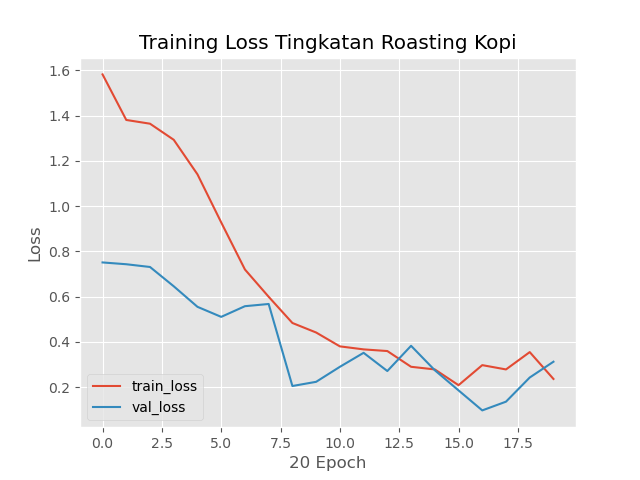
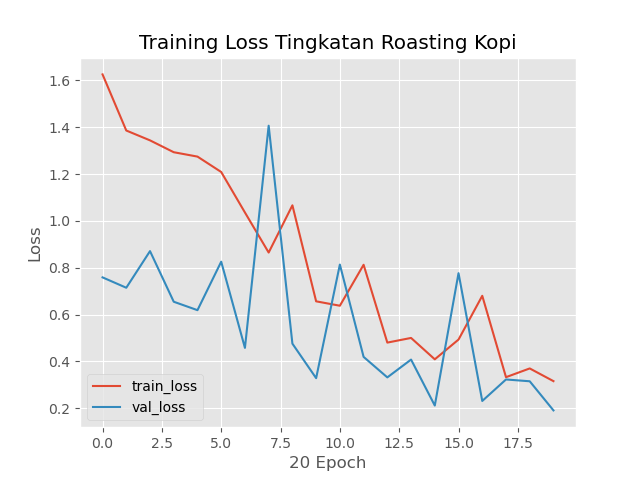
all using cpu + miniVggNet

diff --git a/Mini VggNet/train_miniVgg.py b/Mini VggNet/train_miniVgg.py
@@ -10,19 +10,19 @@ from tensorflow import keras
 from tensorflow.keras.optimizers import Adam
 from tensorflow.keras.optimizers import SGD 
 from tensorflow.keras.optimizers import Nadam
+from tensorflow.keras.utils import to_categorical
+from sklearn.preprocessing import LabelBinarizer
 from sklearn.model_selection import train_test_split
+from sklearn.metrics import classification_report
+from sklearn.metrics import confusion_matrix
 from keras.preprocessing.image import img_to_array
 from keras.preprocessing.image import ImageDataGenerator
 from keras.utils import to_categorical
-from alexnet import AlexNet
+from MiniVggNet import miniVgg
 import matplotlib.pyplot as plt
 import random
 import os
 import argparse
-from tensorflow.keras.utils import to_categorical
-from sklearn.preprocessing import LabelBinarizer
-from sklearn.metrics import classification_report
-from sklearn.metrics import confusion_matrix
 
 #Setting for using CPU
 tf.config.experimental.set_visible_devices([], 'GPU')
@@ -41,6 +41,7 @@ args = vars(ap.parse_args())
 
 # inisiasi variabel
 EPOCHS = 20
+#10^-3
 INIT_LR = 1e-3
 BS = 32
 
@@ -54,10 +55,11 @@ imagePaths = sorted(list(paths.list_images("../prepo")))
 random.seed(42)
 random.shuffle(imagePaths)
 
+
 for imagePath in imagePaths:
     make = imagePath[9:].split("(")[0]
     image = cv2.imread(imagePath)
-    image = cv2.resize(image,(227,227))
+    image = cv2.resize(image,(32,32))
     image = img_to_array(image)
     data.append(image)
 
@@ -71,7 +73,7 @@ for imagePath in imagePaths:
     elif make =="Medium Roast ":
         label = 2
     elif make == "Dark Roast ":
-        label = 3
+        label = 3     
     labels.append(label)
 
 print(labels)
@@ -95,10 +97,10 @@ aug = ImageDataGenerator(rotation_range = 30, width_shift_range=0.1,
 
 #inisiasi model
 print("[Info] Compiling Model.....")
-model = AlexNet.build(width=227, height=227, depth=3, classes=4)
+model = miniVgg.build(width=32, height=32, depth=3, classes=4)
 # opt = Adam(lr=INIT_LR, decay=INIT_LR / EPOCHS)
-# opt = SGD(lr=INIT_LR, momentum=0.9, decay=INIT_LR / EPOCHS)
-opt = Nadam(lr=INIT_LR, decay=INIT_LR / EPOCHS)
+opt = SGD(lr=INIT_LR, momentum=0.9, decay=INIT_LR / EPOCHS)
+# opt = Nadam(lr=INIT_LR, decay=INIT_LR / EPOCHS)
 # model.compile(loss="binary_crossentropy", optimizer=opt, metrics=["accuracy"])
 model.compile(loss="categorical_crossentropy", optimizer=opt, metrics=["accuracy"])
 
@@ -110,9 +112,9 @@ H = model.fit_generator(aug.flow(trainX, trainY, batch_size=BS),
 
 #save model
 print("[Info] menyimpan model")
-# model.save('train_AlexNet.model.h5')
-# model.save('train_AlexNet(SGD).model.h5')
-model.save('train_AlexNet(NADAM).model.h5')
+# model.save('train_miniVgg.model.h5')
+model.save('train_miniVgg(SGD).model.h5')
+# model.save('train_miniVgg(NADAM).model.h5')
 
 #simpan model ke disk
 # model.save(args["model"])
@@ -136,7 +138,7 @@ print(testY.argmax(axis=1))
 print(predIdxs)
 total = sum(sum(cm))
 print("total",total)
-# #Akurasi
+# Akurasi
 acc = (cm[0,0] + cm[1,1] + cm[2,2] + cm[3,3]) / total
 
 #Spesifitas

diff --git a/VGG16/train_vgg16.py b/VGG16/train_vgg16.py
@@ -8,6 +8,8 @@ matplotlib.use("Agg")
 import tensorflow as tf
 from tensorflow import keras
 from tensorflow.keras.optimizers import Adam
+from tensorflow.keras.optimizers import SGD 
+from tensorflow.keras.optimizers import Nadam
 from sklearn.model_selection import train_test_split
 from keras.preprocessing.image import img_to_array
 from keras.preprocessing.image import ImageDataGenerator
@@ -33,6 +35,8 @@ np.seterr(divide='ignore', invalid='ignore')
 ap = argparse.ArgumentParser()
 ap.add_argument("-p", "--plot", type=str, default="plot.png",
 	help="path to output accuracy/loss plot")
+ap.add_argument("-d", "--plot2", type=str, default="plotAkurasi.png",
+	help="path to output accuracy/loss plot") 
 args = vars(ap.parse_args())
 
 # inisiasi variabel
@@ -99,7 +103,10 @@ aug = ImageDataGenerator(rotation_range = 30, width_shift_range=0.1,
 print("[Info] Compiling Model.....")
 model = VGG16.build(width=224, height=224, depth=3, classes=4)
 opt = Adam(lr=INIT_LR, decay=INIT_LR / EPOCHS)
-model.compile(loss="binary_crossentropy", optimizer=opt, metrics=["accuracy"])
+# opt = SGD(lr=INIT_LR, momentum=0.9, decay=INIT_LR / EPOCHS)
+# opt = Nadam(lr=INIT_LR, decay=INIT_LR / EPOCHS)
+# model.compile(loss="binary_crossentropy", optimizer=opt, metrics=["accuracy"])
+model.compile(loss="categorical_crossentropy", optimizer=opt, metrics=["accuracy"])
 
 #train the network
 print("[Info] training model")
@@ -110,6 +117,8 @@ H = model.fit_generator(aug.flow(trainX, trainY, batch_size=BS),
 #save model
 print("[Info] menyimpan model")
 model.save('train_VGG16.model.h5')
+# model.save('train_VGG16(SGD).model.h5')
+# model.save('train_VGG16(NADAM).model.h5')
 
 #simpan model ke disk
 # model.save(args["model"])
@@ -167,10 +176,19 @@ plt.figure()
 N =  EPOCHS
 plt.plot(np.arange(0,N), H.history["loss"], label="train_loss")
 plt.plot(np.arange(0, N), H.history["val_loss"], label="val_loss")
-plt.plot(np.arange(0, N), H.history["accuracy"], label="train_accuracy")
-plt.plot(np.arange(0, N), H.history["val_accuracy"], label="val_accuracy")
-plt.title("Training Loss dan Accuracy Tingkatan Roasting Kopi")
-plt.xlabel("Epoch #")
-plt.ylabel("Loss/Accuracy")
+plt.title("Training Loss Tingkatan Roasting Kopi")
+plt.xlabel("20 Epoch")
+plt.ylabel("Loss")
 plt.legend(loc="lower left")
 plt.savefig(args["plot"])
+
+plt.style.use("ggplot")
+plt.figure()
+N =  EPOCHS
+plt.plot(np.arange(0, N), H.history["accuracy"], label="train_accuracy")
+plt.plot(np.arange(0, N), H.history["val_accuracy"], label="val_accuracy")
+plt.title("Accuracy Tingkatan Roasting Kopi")
+plt.xlabel("20 Epoch")
+plt.ylabel("Accuracy")
+plt.legend(loc="lower left")
+plt.savefig(args["plot2"])

diff --git a/Mini VggNet/MiniVggNet.py b/Mini VggNet/MiniVggNet.py
@@ -1,0 +1,44 @@
+import tensorflow as tf
+from tensorflow import keras
+from tensorflow.keras import Model
+from tensorflow.keras.models import Sequential 
+from tensorflow.keras.layers import Dense, Flatten, Conv2D, MaxPooling2D, Activation, Dropout
+
+class miniVgg:
+    @staticmethod
+    def build(width, height, depth, classes):
+        #inisiasi model
+        model = Sequential()
+        inputShape = (height, width, depth)
+
+        #1
+        # model.add(Conv2D(20, (5,5), padding="same", input_shape = inputShape))
+        model.add(Conv2D(32, (3,3), padding = "same", input_shape = inputShape))
+        model.add(Activation("relu"))
+
+        #2
+        model.add(Conv2D(32, (3,3), padding = "same" ))
+        model.add(Activation("relu"))
+        model.add(MaxPooling2D(pool_size = (2,2), strides=(2,2)))
+        model.add(Dropout(0.5))
+
+        #3
+        model.add(Conv2D(64, (3,3), padding = "same"))
+        model.add(Activation("relu"))
+
+        #4
+        model.add(Conv2D(64, (3,3), padding = "same"))
+        model.add(Activation("relu"))
+        model.add(MaxPooling2D(pool_size = (2,2), strides = (2,2)))
+        model.add(Dropout(0.5))
+
+        #5 FC
+        model.add(Flatten())
+        model.add(Dense(512))
+
+        #6
+        model.add(Dense(classes))
+        model.add(Activation("softmax"))
+
+        #return model
+        return model

diff --git a/LeNet/train_lenet.py b/LeNet/train_lenet.py
@@ -24,6 +24,10 @@ import random
 import os
 import argparse
 
+#Setting for using CPU
+tf.config.experimental.set_visible_devices([], 'GPU')
+tf.config.experimental.list_physical_devices('GPU')
+tf.config.experimental.list_logical_devices('GPU')
 
 np.seterr(divide='ignore', invalid='ignore')
 
@@ -94,9 +98,9 @@ aug = ImageDataGenerator(rotation_range = 30, width_shift_range=0.1,
 #inisiasi model
 print("[Info] Compiling Model.....")
 model = LeNet.build(width=32, height=32, depth=3, classes=4)
-opt = Adam(lr=INIT_LR, decay=INIT_LR / EPOCHS)
+# opt = Adam(lr=INIT_LR, decay=INIT_LR / EPOCHS)
 # opt = SGD(lr=INIT_LR, momentum=0.9, decay=INIT_LR / EPOCHS)
-# opt = Nadam(lr=INIT_LR, decay=INIT_LR / EPOCHS)
+opt = Nadam(lr=INIT_LR, decay=INIT_LR / EPOCHS)
 # model.compile(loss="binary_crossentropy", optimizer=opt, metrics=["accuracy"])
 model.compile(loss="categorical_crossentropy", optimizer=opt, metrics=["accuracy"])
 
@@ -108,9 +112,9 @@ H = model.fit_generator(aug.flow(trainX, trainY, batch_size=BS),
 
 #save model
 print("[Info] menyimpan model")
-model.save('train_lenet.model.h5')
+# model.save('train_lenet.model.h5')
 # model.save('train_lenet(SGD).model.h5')
-# model.save('train_lenet(NADAM).model.h5')
+model.save('train_lenet(NADAM).model.h5')
 
 #simpan model ke disk
 # model.save(args["model"])

diff --git a/Mini VggNet/test_miniVgg.py b/Mini VggNet/test_miniVgg.py
@@ -44,7 +44,7 @@ image = np.expand_dims(image, axis = 0)
 #load model yang sudah dilatih
 print("[Info] Loading Network.....")
 # model = load_model("train_lenet.model.h5")
-model = tf.keras.models.load_model("train_lenet.model.h5")
+model = tf.keras.models.load_model("train_miniVgg.model.h5")
 array = model.predict(image)
 result = array[0]
 answer = np.argmax(result)
